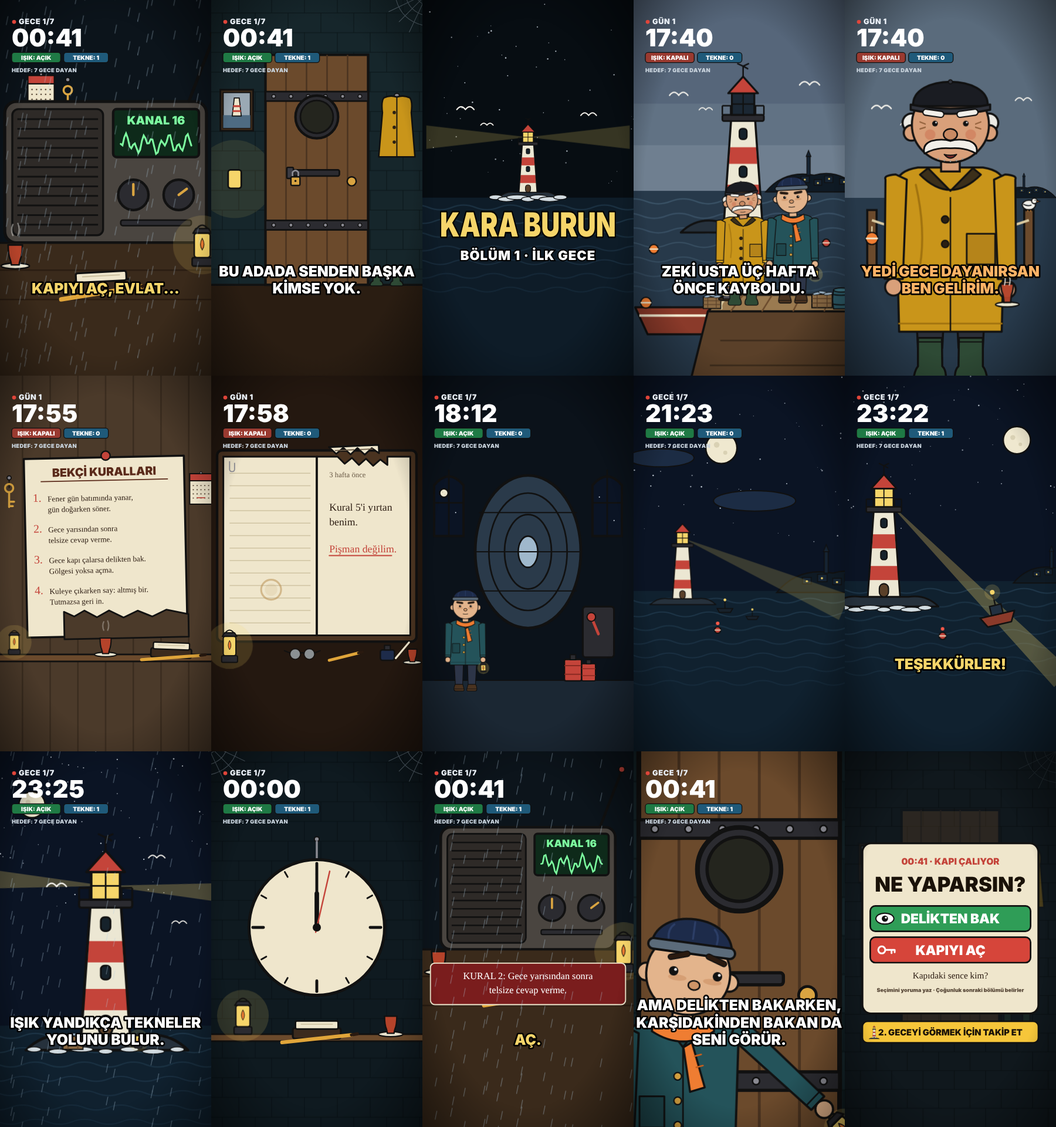
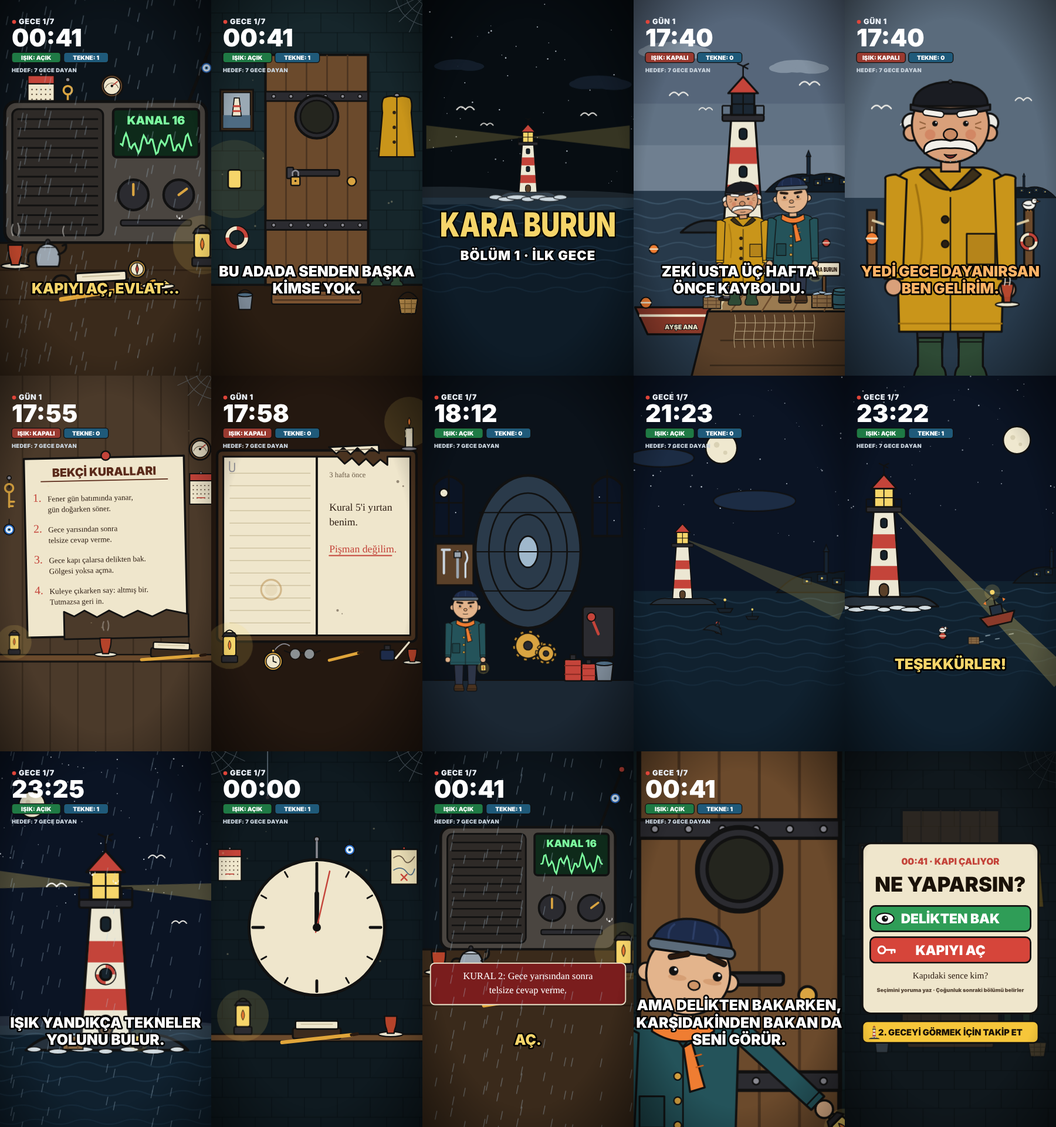
Kara Burun Bölüm 1: ikinci tur detaylar (harita, barometre, nazar, can simidi, yunus, güve, toz, dişli, tabela vb.)
Claude-Session: https://claude.ai/code/session_01LL2aFc3kDNuq4S6Wc9xmYN

diff --git a/story/bolum-01/sahne-cizim.js b/story/bolum-01/sahne-cizim.js
@@ -7,13 +7,13 @@ const ease=x=>x<0?0:x>1?1:x*x*(3-2*x);
 /* anahtar kare ara değeri: K=[[t,{alan:değer}],…]; sayılar yumuşak geçer, metin/bool alanlar sonraki karede değişir */
 const kf=(K,t)=>{if(t<=K[0][0])return Object.assign({},K[0][1]);for(let i=1;i<K.length;i++)if(t<=K[i][0]){const[t0,a]=K[i-1],[t1,b]=K[i],u=ease((t-t0)/(t1-t0)),o={};Object.keys(b).forEach(k=>{const av=a[k]!==undefined?a[k]:b[k];o[k]=typeof b[k]==='number'?av+(b[k]-av)*u:(u>=1?b[k]:av)});return o}return Object.assign({},K[K.length-1][1])};
 const stars=(n,seed,ymax)=>{const r=Cz.rng(seed);let s='<g fill="#dfe8f2">';for(let i=0;i<n;i++)s+=`<circle cx="${(r()*1080).toFixed(0)}" cy="${(r()*ymax).toFixed(0)}" r="${(1.5+r()*2.5).toFixed(1)}" opacity="${(.4+r()*.5).toFixed(2)}"/>`;return s+'</g>'};
-const masa=(y,buhar)=>`<rect y="${y}" width="1080" height="${1920-y}" fill="#3a2a1b"/><path d="M0 ${y}H1080" stroke="#111" stroke-width="10"/><path d="M0 ${y+130}H1080 M0 ${y+270}H1080" stroke="#2a1d12" stroke-width="7"/>`+Cz.defterK(520,y+190,1.5,-3)+Cz.gaz(1000,y+110,1)+Cz.bardak(110,y+110,1.25,buhar);
-const kapiDuvari=()=>Cz.cerceve(70,470,160,200)+Cz.yagmurluk(930,500,.9)+Cz.cizme(880,1425,.6)+Cz.orumcek(1080,0,1,true);
+const masa=(y,buhar)=>`<rect y="${y}" width="1080" height="${1920-y}" fill="#3a2a1b"/><path d="M0 ${y}H1080" stroke="#111" stroke-width="10"/><path d="M0 ${y+130}H1080 M0 ${y+270}H1080" stroke="#2a1d12" stroke-width="7"/>`+Cz.defterK(520,y+190,1.5,-3)+Cz.gaz(1000,y+110,1)+Cz.bardak(110,y+110,1.25,buhar)+Cz.demlik(265,y+112,1.1,buhar)+Cz.tabak(790,y+205,1.1)+Cz.pusula(690,y+125,1)+Cz.kulaklik(330,y+225,1)+Cz.guve(925,y-95);
+const kapiDuvari=()=>Cz.cerceve(70,470,160,200)+Cz.yagmurluk(930,500,.9)+Cz.cizme(880,1425,.6)+Cz.orumcek(1080,0,1,true)+Cz.simit(150,1190,46)+Cz.paspas(320,1450,440)+Cz.kova(190,1540,.8)+Cz.sepet(985,1560,.8)+Cz.toz(14,2,300,1300);
 const knock=(lt,ts,id,cx,cy,glow)=>{let dx=0,gl=.12;ts.forEach(t=>{const d=lt-t;if(d>0&&d<.3){dx+=Math.sin(d*70)*9*(1-d/.3);gl=Math.max(gl,.6*(1-d/.3))}});const k=$(id);if(k)k.setAttribute('transform',`translate(${cx+dx} ${cy})`);const e=$(glow);if(e)e.setAttribute('opacity',gl)};
 
 /* S1: HOOK, telsiz */
 S[1]={zoom:[1,1.12,540,880],
- ciz(g){g.innerHTML=Cz.duz('#0c141b')+Cz.takvim(170,420,.9)+Cz.anahtar(360,440,1)+`<g transform="translate(540 880) scale(1.2)">${Cz.telsiz('r1')}</g>`+masa(1216,true)+Cz.rain(22,3)},
+ ciz(g){g.innerHTML=Cz.duz('#0c141b')+Cz.takvim(170,420,.9)+Cz.anahtar(360,440,1)+Cz.barometre(570,470,52)+`<g transform="translate(540 880) scale(1.2)">${Cz.telsiz('r1')}</g>`+masa(1216,true)+Cz.nazar(1020,332)+Cz.rain(22,3)},
  hook(lt){$('r1w').setAttribute('d',Cz.dalga(60,340,-112,42,lt));$('r1g').setAttribute('fill',Math.floor(lt*9)%3===0?'#144a2c':'#0e2a1a')}};
 
 /* S2: HOOK, kapıdaki vuruş */
@@ -24,7 +24,7 @@ S[2]={zoom:[1,1.08,540,700],
 
 /* S3: başlık kartı */
 S[3]={
- ciz(g){const l=Cz.lamba(540,1010,.5);g.innerHTML=Cz.duz('#070d12')+stars(50,3,950)+Cz.sea(1010,'#0e1c28','#2c4a60')+Cz.ray(l[0],l[1],0,520,60,.2)+Cz.ray(l[0],l[1],180,520,60,.2)+Cz.tower(540,1010,.5,true)+Cz.towerDetay(540,1010,.5)+Cz.kopuk(540,1012,330)+Cz.martiU(220,560,1.1)+Cz.martiU(330,640,.8)+Cz.martiU(850,590,1)+
+ ciz(g){const l=Cz.lamba(540,1010,.5);g.innerHTML=Cz.duz('#070d12')+stars(50,3,950)+Cz.sea(1010,'#0e1c28','#2c4a60')+Cz.ray(l[0],l[1],0,520,60,.2)+Cz.ray(l[0],l[1],180,520,60,.2)+Cz.tower(540,1010,.5,true)+Cz.towerDetay(540,1010,.5)+Cz.kopuk(540,1012,330)+Cz.martiU(220,560,1.1)+Cz.martiU(330,640,.8)+Cz.martiU(850,590,1)+Cz.bulut(180,330,.8,'#16222f')+Cz.bulut(900,420,1,'#16222f')+Cz.sis(1000,'#9fb8cc',.14)+
   Cz.txt(540,1210,'KARA BURUN',{size:170,fill:P.lamp,anchor:'middle',extra:'stroke="#000" stroke-width="16" stroke-linejoin="round" paint-order="stroke fill" font-weight="900" textLength="900" lengthAdjust="spacingAndGlyphs"'})+
   Cz.txt(540,1330,'BÖLÜM 1 · İLK GECE',{size:66,fill:'#fff',anchor:'middle',extra:'stroke="#000" stroke-width="12" paint-order="stroke fill" letter-spacing="3"'})},
  hook(lt,sc,g){g.style.opacity=Math.min(1,lt/.25)*Math.min(1,(sc.sure-lt)/.25)}};
@@ -33,11 +33,11 @@ S[3]={
 let rigR4,rigB4;
 S[4]={zoom:[1,1.1,560,1050],
  ciz(g){
-  g.innerHTML=Cz.duz('#56667a')+`<rect y="560" width="1080" height="420" fill="#6b7b8c" opacity=".55"/><rect y="760" width="1080" height="220" fill="#7d8c9b" opacity=".5"/>`+Cz.sea(980,'#27394a','#4e6b82')+Cz.kasaba(740,985,.9)+Cz.tower(560,1180,1.0,false)+Cz.towerDetay(560,1180,1.0)+Cz.martiU(250,520,1.1)+Cz.martiU(380,590,.8)+Cz.martiU(880,470,1.2)+Cz.samandira(130,1260,22,'#ef7d32')+Cz.samandira(960,1230,18,'#c4443a');
-  g.insertAdjacentHTML('beforeend',`<path d="M40 1540 L470 1540 L420 1670 L100 1670 Z" fill="#8a3a2a" stroke="#111" stroke-width="10" stroke-linejoin="round"/><path d="M60 1580 H452" stroke="#efe6cc" stroke-width="12"/>
+  g.innerHTML=Cz.duz('#56667a')+`<rect y="560" width="1080" height="420" fill="#6b7b8c" opacity=".55"/><rect y="760" width="1080" height="220" fill="#7d8c9b" opacity=".5"/>`+Cz.bulut(220,300,1.1)+Cz.bulut(820,380,.9)+Cz.sea(980,'#27394a','#4e6b82')+Cz.kasaba(740,985,.9)+Cz.tower(560,1180,1.0,false)+Cz.towerDetay(560,1180,1.0)+Cz.martiU(250,520,1.1)+Cz.martiU(380,590,.8)+Cz.martiU(880,470,1.2)+Cz.samandira(130,1260,22,'#ef7d32')+Cz.samandira(960,1230,18,'#c4443a');
+  g.insertAdjacentHTML('beforeend',`<path d="M40 1540 L470 1540 L420 1670 L100 1670 Z" fill="#8a3a2a" stroke="#111" stroke-width="10" stroke-linejoin="round"/><path d="M60 1580 H452" stroke="#efe6cc" stroke-width="12"/><text x="262" y="1646" text-anchor="middle" font-size="30" fill="#efe6cc" stroke="#111" stroke-width="6" paint-order="stroke fill">AYŞE ANA</text>
    <path d="M470 1480 L1080 1480 L1080 1560 L390 1560 Z" fill="#9a7a50" stroke="#111" stroke-width="10" stroke-linejoin="round"/><path d="M390 1560 L1080 1560 L1080 1920 L300 1920 Z" fill="#5a4029" stroke="#111" stroke-width="10" stroke-linejoin="round"/>
    <path d="M560 1480 L500 1560 M700 1480 L650 1560 M840 1480 L800 1560 M980 1480 L950 1560" stroke="#6b4a2c" stroke-width="7"/><path d="M450 1700 H1080 M400 1820 H1080" stroke="#3a2a1b" stroke-width="7"/><path d="M482 1496 Q448 1518 456 1546" fill="none" stroke="#d9c9a0" stroke-width="9" stroke-linecap="round"/>`+
-   Cz.sandik(410,1546,.6,true)+Cz.samandira(92,1518,26,'#ef7d32')+Cz.bitta(482,1500,.7)+Cz.martiO(482,1444,.7)+Cz.sandik(940,1542,.7,true)+Cz.varil(1032,1548,.7));
+   Cz.sandik(410,1546,.6,true)+Cz.samandira(92,1518,26,'#ef7d32')+Cz.bitta(482,1500,.7)+Cz.martiO(482,1444,.7)+Cz.ag(520,900,1575,8)+Cz.levha(950,1330,150,'KARA BURUN')+Cz.sandik(940,1542,.7,true)+Cz.varil(1032,1548,.7));
   rigR4=Rigs.reis(g,{x:0,y:0,s:.4});rigB4=Rigs.bekci(g,{x:0,y:0,s:.4});
   g.insertAdjacentHTML('beforeend','<g id="bag4"><rect x="-44" y="-32" width="88" height="64" rx="16" fill="#7a5230" stroke="#111" stroke-width="7"/><path d="M-26 -32 Q0 -62 26 -32" fill="none" stroke="#111" stroke-width="7"/><path d="M-44 -4 H44" stroke="#4a3320" stroke-width="6"/></g>');
  },
@@ -56,7 +56,7 @@ S[4]={zoom:[1,1.1,560,1050],
 /* S5: Reis Rıza konuşuyor */
 let rigR;
 S[5]={zoom:[1,1.06,540,700],
- ciz(g){g.innerHTML=Cz.duz('#5a6b7c')+`<rect y="1000" width="1080" height="920" fill="#27394a"/>`+Cz.kasaba(820,1000,.55)+Cz.martiU(200,560,1.2)+Cz.martiU(330,640,.9)+Cz.martiU(900,520,1)+`<g stroke="#111" stroke-width="10"><rect x="130" y="1060" width="46" height="280" fill="#6b4a2c"/><rect x="904" y="1060" width="46" height="280" fill="#6b4a2c"/></g><path d="M153 1110 Q540 1250 927 1110" fill="none" stroke="#d9c9a0" stroke-width="12"/><path d="M153 1140 V1170" stroke="#d9c9a0" stroke-width="7"/>`+Cz.samandira(153,1200,30,'#ef7d32')+Cz.martiO(927,1062,.9);rigR=Rigs.reis(g,{x:540,y:640,s:1})},
+ ciz(g){g.innerHTML=Cz.duz('#5a6b7c')+`<rect y="1000" width="1080" height="920" fill="#27394a"/>`+Cz.kasaba(820,1000,.55)+Cz.martiU(200,560,1.2)+Cz.martiU(330,640,.9)+Cz.martiU(900,520,1)+`<g stroke="#111" stroke-width="10"><rect x="130" y="1060" width="46" height="280" fill="#6b4a2c"/><rect x="904" y="1060" width="46" height="280" fill="#6b4a2c"/></g><path d="M153 1110 Q540 1250 927 1110" fill="none" stroke="#d9c9a0" stroke-width="12"/><path d="M153 1140 V1170" stroke="#d9c9a0" stroke-width="7"/>`+Cz.samandira(153,1200,30,'#ef7d32')+Cz.martiO(927,1062,.9)+Cz.kurek(255,1380,1)+Cz.simit(927,1215,36);rigR=Rigs.reis(g,{x:540,y:640,s:1})},
  agiz(v){Rigs.mouth(rigR,v)}};
 
 /* S6: kural kâğıdı */
@@ -67,7 +67,7 @@ S[6]={zoom:[1,1.08,540,900],
   RULES.forEach((r,i)=>{const y=590+i*150;s+=`<g id="rl${i}" opacity="0">`+Cz.txt(190,y,(i+1)+'.',{size:56,fill:P.red,cls:'hand',extra:'font-weight="700"'})+Cz.txt(262,y,r[0],{size:38,fill:'#2a1a10',cls:'hand'})+Cz.txt(262,y+52,r[1],{size:38,fill:'#2a1a10',cls:'hand'})+'</g>'});
   s+=`<path d="M330 1128 L380 1152 L430 1124 L490 1158 L550 1126 L620 1162 L690 1130 L760 1160 L830 1128 L936 1152 V1262 H330 Z" fill="#4b3a2a" stroke="#111" stroke-width="8" stroke-linejoin="round"/>`;
   s+=`<g id="rl4" opacity="0">`+Cz.txt(190,1190,'5.',{size:56,fill:P.red,cls:'hand',extra:'font-weight="700"'})+'</g></g><circle cx="540" cy="432" r="22" fill="#c4443a" stroke="#111" stroke-width="7"/>';
-  s+=Cz.anahtar(70,540,1)+Cz.takvim(950,520,.78)+`<rect y="1400" width="1080" height="34" fill="#6b4a2c" stroke="#111" stroke-width="8"/>`+Cz.gaz(95,1400,.6)+Cz.bardak(540,1400,1,true)+Cz.defterK(860,1380,1.1,2);
+  s+=Cz.anahtar(70,540,1)+Cz.takvim(950,520,.78)+Cz.barometre(1000,400,52)+Cz.nazar(70,740)+Cz.orumcek(1080,0,1,true)+Cz.toz(12,5,300,1300)+`<rect y="1400" width="1080" height="34" fill="#6b4a2c" stroke="#111" stroke-width="8"/>`+Cz.gaz(95,1400,.6)+Cz.bardak(540,1400,1,true)+Cz.defterK(860,1380,1.1,2);
   g.innerHTML=s},
  hook(lt){[.6,1.9,3.2,4.5,5.8].forEach((t,i)=>fade('rl'+i,lt,t))}};
 
@@ -83,8 +83,8 @@ S[7]={zoom:[1,1.1,540,860],
   `<g id="d7a" opacity="0">`+Cz.txt(600,540,'3 hafta önce',{size:36,fill:'#6a5a46',cls:'hand'})+`</g>`+
   `<g id="d7b" opacity="0">`+Cz.txt(600,700,"Kural 5'i yırtan",{size:50,fill:'#2a1a10',cls:'hand'})+Cz.txt(600,770,'benim.',{size:50,fill:'#2a1a10',cls:'hand'})+`</g>`+
   `<g id="d7c" opacity="0">`+Cz.txt(600,900,'Pişman değilim.',{size:50,fill:P.red,cls:'hand'})+`<path d="M600 916 H900" stroke="${P.red}" stroke-width="6" stroke-linecap="round"/></g>`+
-  `<circle cx="320" cy="1080" r="48" fill="none" stroke="#b58a4a" stroke-width="9" opacity=".5"/><circle cx="320" cy="1080" r="30" fill="#b58a4a" opacity=".12"/><path d="M120 462 V500 Q120 512 132 512 Q144 512 144 500 V470" fill="none" stroke="#8a8a92" stroke-width="5"/>`+
-  Cz.gaz(120,1430,.8)+`<g transform="translate(470 1390)"><circle cx="-34" r="26" fill="#cfe1ea" opacity=".6" stroke="#111" stroke-width="6"/><circle cx="34" r="26" fill="#cfe1ea" opacity=".6" stroke="#111" stroke-width="6"/><path d="M-8 -4 Q0 -10 8 -4 M-60 -6 L-86 -16 M60 -6 L86 -16" stroke="#111" stroke-width="6" fill="none" stroke-linecap="round"/></g><path d="M600 1420 L740 1385" stroke="#e0a53a" stroke-width="14" stroke-linecap="round"/><path d="M740 1385 L760 1380" stroke="#2a1a10" stroke-width="12" stroke-linecap="round"/><g transform="translate(880 1420)"><rect x="-34" y="-50" width="68" height="50" rx="10" fill="#1d2b4a" stroke="#111" stroke-width="7"/><rect x="-14" y="-72" width="28" height="22" fill="#2b2b30" stroke="#111" stroke-width="6"/><path d="M40 -10 L104 -86" stroke="#efe6cc" stroke-width="9" stroke-linecap="round"/></g>`+Cz.bardak(1000,1430,.8,false)+
+  `<circle cx="320" cy="1080" r="48" fill="none" stroke="#b58a4a" stroke-width="9" opacity=".5"/><circle cx="320" cy="1080" r="30" fill="#b58a4a" opacity=".12"/><g fill="#2a1a10" opacity=".45"><circle cx="930" cy="560" r="7"/><circle cx="956" cy="582" r="4"/><circle cx="640" cy="1180" r="6"/><circle cx="662" cy="1196" r="3"/></g><path d="M120 462 V500 Q120 512 132 512 Q144 512 144 500 V470" fill="none" stroke="#8a8a92" stroke-width="5"/>`+
+  Cz.mum(985,402)+Cz.cepSaati(330,1425,44)+Cz.gaz(120,1430,.8)+`<g transform="translate(470 1390)"><circle cx="-34" r="26" fill="#cfe1ea" opacity=".6" stroke="#111" stroke-width="6"/><circle cx="34" r="26" fill="#cfe1ea" opacity=".6" stroke="#111" stroke-width="6"/><path d="M-8 -4 Q0 -10 8 -4 M-60 -6 L-86 -16 M60 -6 L86 -16" stroke="#111" stroke-width="6" fill="none" stroke-linecap="round"/></g><path d="M600 1420 L740 1385" stroke="#e0a53a" stroke-width="14" stroke-linecap="round"/><path d="M740 1385 L760 1380" stroke="#2a1a10" stroke-width="12" stroke-linecap="round"/><g transform="translate(880 1420)"><rect x="-34" y="-50" width="68" height="50" rx="10" fill="#1d2b4a" stroke="#111" stroke-width="7"/><rect x="-14" y="-72" width="28" height="22" fill="#2b2b30" stroke="#111" stroke-width="6"/><path d="M40 -10 L104 -86" stroke="#efe6cc" stroke-width="9" stroke-linecap="round"/></g>`+Cz.bardak(1000,1430,.8,false)+
   `<g id="pc7"><path d="M640 440 L880 440 ${[...ZP].reverse().map(p=>`L${p[0].toFixed(0)} ${p[1]}`).join(' ')} Z" fill="#efe6cc" stroke="#111" stroke-width="8" stroke-linejoin="round"/><path d="M670 458 h90 M790 458 h60" stroke="#6a5a46" stroke-width="5" stroke-linecap="round"/></g>`},
  hook(lt){fade('d7a',lt,.2);fade('d7b',lt,.7);fade('d7c',lt,1.6);const k=1-ease((lt-2.3)/1.1);$('pc7').setAttribute('transform',`translate(${-230*k} ${-280*k}) rotate(${-14*k} 760 440)`)}};
 
@@ -92,7 +92,7 @@ S[7]={zoom:[1,1.1,540,860],
 let rigB8;
 S[8]={
  ciz(g){let st='M60 1920 V1760';for(let i=0;i<14;i++)st+=` h60 v-72`;st+=' V1920 Z';
-  g.innerHTML=`<g id="ph8a">${Cz.brick('#16222b','#0d161c')}<path d="${st}" fill="#3b4650" stroke="#111" stroke-width="10" stroke-linejoin="round"/><path d="M90 1590 L930 590" stroke="#8a6a44" stroke-width="12" stroke-linecap="round"/><path d="M200 1500 V1620 M400 1330 V1450 M600 1160 V1280 M800 990 V1110" stroke="#8a6a44" stroke-width="9"/>${Cz.orumcek(1080,0,1,true)}${Cz.duvarLambasi(170,1000,1)}${Cz.duvarLambasi(910,650,1)}<g><circle cx="200" cy="520" r="112" fill="#2b2b30" stroke="#111" stroke-width="12"/><circle cx="200" cy="520" r="94" fill="#0b1424"/>${Cz.moon(236,486,26)}<path d="M106 570 Q150 546 200 570 T294 570" stroke="#2c4a60" stroke-width="7" fill="none"/><path d="M200 426 V614 M106 520 H294" stroke="#111" stroke-width="8"/></g>
+  g.innerHTML=`<g id="ph8a">${Cz.brick('#16222b','#0d161c')}<path d="${st}" fill="#3b4650" stroke="#111" stroke-width="10" stroke-linejoin="round"/><path d="M90 1590 L930 590" stroke="#8a6a44" stroke-width="12" stroke-linecap="round"/><path d="M200 1500 V1620 M400 1330 V1450 M600 1160 V1280 M800 990 V1110" stroke="#8a6a44" stroke-width="9"/>${Cz.orumcek(1080,0,1,true)}${Cz.boru(0,760,430)}<g class="drip8"><path d="M700 40 q-9 16 0 26 q9 -10 0 -26z" fill="#9fc3c9"/></g><g class="drip8" style="animation-delay:-.8s"><path d="M980 80 q-9 16 0 26 q9 -10 0 -26z" fill="#9fc3c9"/></g>${Cz.duvarLambasi(170,1000,1)}${Cz.duvarLambasi(910,650,1)}<g><circle cx="200" cy="520" r="112" fill="#2b2b30" stroke="#111" stroke-width="12"/><circle cx="200" cy="520" r="94" fill="#0b1424"/>${Cz.moon(236,486,26)}<path d="M106 570 Q150 546 200 570 T294 570" stroke="#2c4a60" stroke-width="7" fill="none"/><path d="M200 426 V614 M106 520 H294" stroke="#111" stroke-width="8"/></g>
    <rect x="520" y="420" width="320" height="200" rx="22" fill="#0b1217" stroke="${P.lamp}" stroke-width="8"/>${Cz.txt(680,468,'BASAMAK',{size:34,fill:'#c9d4de',anchor:'middle'})}${Cz.txt(680,578,'55',{size:120,fill:P.lamp,anchor:'middle',extra:'id="st8"'})}</g>
    <g id="ph8b" style="display:none">${Cz.duz('#0b121a')}<rect id="wm8" width="1080" height="1920" fill="#f6d56a" opacity="0"/>
    <circle id="gl8" cx="540" cy="900" r="10" fill="#f6d56a" opacity="0"/>
@@ -100,7 +100,7 @@ S[8]={
    <rect x="820" y="1180" width="160" height="260" rx="16" fill="#2b2b30" stroke="#111" stroke-width="10"/><g id="lv8" transform="rotate(-35 900 1320)"><path d="M900 1320 V1230" stroke="#c4443a" stroke-width="14" stroke-linecap="round"/><circle cx="900" cy="1226" r="22" fill="#c4443a" stroke="#111" stroke-width="6"/></g>
    <path d="M60 1560 H1020" stroke="#111" stroke-width="10"/><rect y="1560" width="1080" height="360" fill="#1b2733"/>
    <path d="M60 820 V560 Q135 470 210 560 V820 Z" fill="#0b1424" stroke="#111" stroke-width="12"/><path d="M135 480 V820 M60 650 H210" stroke="#111" stroke-width="8"/><path d="M870 820 V560 Q945 470 1020 560 V820 Z" fill="#0b1424" stroke="#111" stroke-width="12"/><path d="M945 480 V820 M870 650 H1020" stroke="#111" stroke-width="8"/>${Cz.moon(110,600,22)}<g fill="#dfe8f2"><circle cx="170" cy="700" r="3"/><circle cx="905" cy="620" r="3"/><circle cx="980" cy="740" r="3"/></g>
-   ${Cz.teneke(770,1560,1)}${Cz.teneke(850,1560,.8)}</g>`;
+   ${Cz.teneke(770,1560,1)}${Cz.teneke(850,1560,.8)}${Cz.kova(930,1560,1)}${Cz.disli(540,1380,64)}${Cz.disli(632,1420,40,true)}${Cz.takimTahtasi(70,860)}</g>`;
   rigB8=Rigs.bekci(g,{x:0,y:0,s:.3,anim:'walk'})},
  hook(lt){const a=lt<4.6;$('ph8a').style.display=a?'inline':'none';$('ph8b').style.display=a?'none':'inline';
   if(a){const u=clamp(lt/4.2,0,1),i=4+8*u,k=Math.floor(i);rigB8.parentNode.setAttribute('transform',`translate(${100+k*60+30} ${1760-k*72-382}) scale(.3)`);$('st8').textContent=55+Math.min(6,Math.floor(lt/.7))}
@@ -110,30 +110,30 @@ S[8]={
 
 /* S9: zaman atlama */
 S[9]={
- ciz(g){const l=Cz.lamba(250,1170,.55);g.innerHTML=Cz.duz('#0b1424')+stars(60,5,900)+`<g id="mo9">${Cz.moon(0,0,80)}</g>`+Cz.sea(1100,'#10212f','#2c4a60')+Cz.kasaba(820,1108,1.1)+`<g id="fb9"><g transform="translate(560 1190)"><path d="M-40 0 H40 L28 20 H-28 Z" fill="#18222c" stroke="#111" stroke-width="5"/><path d="M0 0 V-40" stroke="#111" stroke-width="5"/><circle cy="-44" r="7" fill="#f6d56a"/></g><g transform="translate(700 1230) scale(.8)"><path d="M-40 0 H40 L28 20 H-28 Z" fill="#18222c" stroke="#111" stroke-width="5"/><path d="M0 0 V-40" stroke="#111" stroke-width="5"/><circle cy="-44" r="7" fill="#f6d56a"/></g></g>`+Cz.samandira(430,1300,16,'#c4443a',true)+Cz.ray(l[0],l[1],14,900,70,.2,'by9')+Cz.tower(250,1170,.55,true)+
+ ciz(g){const l=Cz.lamba(250,1170,.55);g.innerHTML=Cz.duz('#0b1424')+stars(60,5,900)+`<g id="mo9">${Cz.moon(0,0,80)}</g>`+Cz.sea(1100,'#10212f','#2c4a60')+Cz.kasaba(820,1108,1.1)+`<g id="fb9"><g transform="translate(560 1190)"><path d="M-40 0 H40 L28 20 H-28 Z" fill="#18222c" stroke="#111" stroke-width="5"/><path d="M0 0 V-40" stroke="#111" stroke-width="5"/><circle cy="-44" r="7" fill="#f6d56a"/></g><g transform="translate(700 1230) scale(.8)"><path d="M-40 0 H40 L28 20 H-28 Z" fill="#18222c" stroke="#111" stroke-width="5"/><path d="M0 0 V-40" stroke="#111" stroke-width="5"/><circle cy="-44" r="7" fill="#f6d56a"/></g></g>`+Cz.samandira(430,1300,16,'#c4443a',true)+`<g id="dl9"><path d="M0 0 Q26 -46 66 -38 Q84 -28 96 0 Q56 -14 0 0Z" fill="#1a2a38" stroke="#111" stroke-width="5"/><path d="M52 -36 L62 -62 L74 -34Z" fill="#1a2a38" stroke="#111" stroke-width="4"/></g><path id="ss9" d="M0 0 L-90 34" stroke="#fff" stroke-width="5" stroke-linecap="round" opacity="0"/>`+Cz.ray(l[0],l[1],14,900,70,.2,'by9')+Cz.tower(250,1170,.55,true)+
   `<g id="cl9" fill="#1c2c44" stroke="#111" stroke-width="6"><ellipse cx="300" cy="420" rx="170" ry="46"/><ellipse cx="780" cy="640" rx="210" ry="52"/></g>`},
- hook(lt,sc){const u=lt/sc.sure;$('mo9').setAttribute('transform',`translate(${920-u*760} ${760-420*Math.sin(Math.PI*u)})`);$('cl9').setAttribute('transform',`translate(${-u*260} 0)`);$('fb9').setAttribute('transform',`translate(${-u*150} 0)`);$('by9').setAttribute('transform',`rotate(${14+Math.sin(lt*3)*10} 250 ${1170-618*.55})`)}};
+ hook(lt,sc){const u=lt/sc.sure;$('mo9').setAttribute('transform',`translate(${920-u*760} ${760-420*Math.sin(Math.PI*u)})`);$('cl9').setAttribute('transform',`translate(${-u*260} 0)`);$('fb9').setAttribute('transform',`translate(${-u*150} 0)`);const j=Math.abs(Math.sin(u*Math.PI*3));$('dl9').setAttribute('transform',`translate(${300+u*90} ${1345-80*j}) rotate(${-22+44*(u*3%1)} 48 0)`);$('dl9').setAttribute('opacity',j>.2?1:0);const q=clamp((u-.3)/.15,0,1);$('ss9').setAttribute('transform',`translate(${760-q*340} ${280+q*150})`);$('ss9').setAttribute('opacity',q>0&&q<1?1-q*.6:0);$('by9').setAttribute('transform',`rotate(${14+Math.sin(lt*3)*10} 250 ${1170-618*.55})`)}};
 
 /* S10: tekne kurtarılıyor */
 S[10]={
- ciz(g){const l=Cz.lamba(200,1180,.9);g.innerHTML=Cz.duz('#0b1424')+stars(50,9,800)+Cz.moon(880,330,70)+Cz.sea(1050,'#10212f','#2c4a60')+Cz.kasaba(930,1060,.85)+Cz.samandira(500,1330,18,'#c4443a',true)+Cz.ray(l[0],l[1],20,1300,60,.3,'by10')+Cz.tower(200,1180,.9,true)+Cz.towerDetay(200,1180,.9)+Cz.kopuk(200,1190,420)+
-  `<g id="bt10" transform="translate(780 1220)"><path id="bth" d="M-90 0 L90 0 L62 52 L-62 52 Z" fill="#18222c" stroke="#111" stroke-width="8" stroke-linejoin="round"/><rect x="-30" y="-48" width="60" height="48" fill="#223040" stroke="#111" stroke-width="7"/><path d="M0 -48 V-110" stroke="#111" stroke-width="7"/><circle cx="0" cy="-116" r="12" fill="${P.lamp}"/><circle cx="0" cy="-116" r="40" fill="${P.lamp}" opacity=".18"/></g>`},
+ ciz(g){const l=Cz.lamba(200,1180,.9);g.innerHTML=Cz.duz('#0b1424')+stars(50,9,800)+Cz.moon(880,330,70)+Cz.sea(1050,'#10212f','#2c4a60')+Cz.kasaba(930,1060,.85)+Cz.samandira(500,1330,18,'#c4443a',true)+Cz.martiO(500,1316,.5)+Cz.sandik(660,1372,.4)+`<g stroke="#cfe6ef" stroke-width="4" stroke-linecap="round" opacity=".8"><path d="M720 1330 l22 -4 M770 1346 l20 -3 M690 1362 l18 -4 M840 1322 l22 -4"/></g>`+Cz.ray(l[0],l[1],20,1300,60,.3,'by10')+Cz.tower(200,1180,.9,true)+Cz.towerDetay(200,1180,.9)+Cz.kopuk(200,1190,420)+
+  `<g id="bt10" transform="translate(780 1220)"><path id="bth" d="M-90 0 L90 0 L62 52 L-62 52 Z" fill="#18222c" stroke="#111" stroke-width="8" stroke-linejoin="round"/><rect x="-30" y="-48" width="60" height="48" fill="#223040" stroke="#111" stroke-width="7"/><path d="M0 -48 V-110" stroke="#111" stroke-width="7"/><path d="M0 -100 L-44 -78 M0 -100 L44 -78" stroke="#111" stroke-width="4"/><path d="M-44 -78 l-14 10 l14 10z M44 -78 l14 10 l-14 10z" fill="#ef7d32"/><circle cx="0" cy="-116" r="12" fill="${P.lamp}"/><circle cx="0" cy="-116" r="40" fill="${P.lamp}" opacity=".18"/></g>`},
  hook(lt){const a=15+lt*14;$('by10').setAttribute('transform',`rotate(${a} 200 ${1180-618*.9})`);const lit=Math.abs(a-45.8)<9;$('bth').setAttribute('fill',lit?'#8a3a2a':'#18222c');const k=ease((lt-2)/1);$('bt10').setAttribute('transform',`translate(780 1220) rotate(${-14*(1-k)})`)}};
 
 /* S11: kule dışarıdan */
 S[11]={zoom:[1.12,1,540,900],
- ciz(g){const l=Cz.lamba(540,1500,1.3);g.innerHTML=Cz.duz('#0b1424')+stars(60,11,800)+Cz.moon(180,300,64)+Cz.sea(1380,'#10212f','#2c4a60')+Cz.ray(l[0],l[1],-4,1100,90,.28,'ba11')+Cz.ray(l[0],l[1],176,1100,90,.28,'bb11')+Cz.tower(540,1500,1.3,true)+Cz.towerDetay(540,1500,1.3)+Cz.kopuk(540,1500,700)+Cz.gaz(700,1490,.38)+Cz.sandik(380,1496,.7,true)+Cz.martiU(300,700,1.2)+Cz.martiU(790,560,1)+Cz.martiU(900,880,.9)+Cz.rain(18,13)},
+ ciz(g){const l=Cz.lamba(540,1500,1.3);g.innerHTML=Cz.duz('#0b1424')+stars(60,11,800)+Cz.moon(180,300,64)+Cz.sea(1380,'#10212f','#2c4a60')+Cz.ray(l[0],l[1],-4,1100,90,.28,'ba11')+Cz.ray(l[0],l[1],176,1100,90,.28,'bb11')+Cz.tower(540,1500,1.3,true)+Cz.towerDetay(540,1500,1.3)+Cz.kopuk(540,1500,700)+Cz.gaz(700,1490,.38)+Cz.sandik(380,1496,.7,true)+Cz.simit(540,1130,40)+Cz.guve(600,690)+Cz.guve(486,650)+Cz.sis(1380,'#cfe0ea',.16)+Cz.martiU(300,700,1.2)+Cz.martiU(790,560,1)+Cz.martiU(900,880,.9)+Cz.rain(18,13)},
  hook(lt){const l=Cz.lamba(540,1500,1.3),a=-14+lt*8;$('ba11').setAttribute('transform',`rotate(${a} ${l[0]} ${l[1]})`);$('bb11').setAttribute('transform',`rotate(${a+180} ${l[0]} ${l[1]})`)}};
 
 /* S12: gece yarısı */
 S[12]={zoom:[1,1.08,540,900],
- ciz(g){g.innerHTML=Cz.brick('#0f1a20','#0a1217')+Cz.orumcek(0,0,1,false)+Cz.orumcek(1080,0,1,true)+`<circle cx="540" cy="470" r="12" fill="#8a8a92" stroke="#111" stroke-width="6"/><path d="M540 480 V580" stroke="#8a8a92" stroke-width="10"/><rect y="1420" width="1080" height="34" fill="#6b4a2c" stroke="#111" stroke-width="8"/>`+Cz.gaz(180,1420,.9)+Cz.defterK(540,1400,1.3,0)+Cz.bardak(900,1420,1.1,false)+`<g transform="translate(540 900)">${Cz.saat(330,'ck')}</g><rect id="fl12" width="1080" height="1920" fill="#000" opacity="0"/>`},
+ ciz(g){g.innerHTML=Cz.brick('#0f1a20','#0a1217')+Cz.orumcek(0,0,1,false)+Cz.orumcek(1080,0,1,true)+`<circle cx="540" cy="470" r="12" fill="#8a8a92" stroke="#111" stroke-width="6"/><path d="M540 480 V580" stroke="#8a8a92" stroke-width="10"/><rect y="1420" width="1080" height="34" fill="#6b4a2c" stroke="#111" stroke-width="8"/>`+Cz.gaz(180,1420,.9)+Cz.defterK(540,1400,1.3,0)+Cz.bardak(900,1420,1.1,false)+Cz.takvim(60,520,.8)+Cz.harita(900,520,130,170)+Cz.nazar(700,470)+Cz.toz(14,8,300,1300)+`<g class="spid"><path d="M300 0 V220" stroke="#9fb0bf" stroke-width="3"/><circle cx="300" cy="228" r="9" fill="#2b2b30"/></g>`+`<g transform="translate(540 900)">${Cz.saat(330,'ck')}</g><rect id="fl12" width="1080" height="1920" fill="#000" opacity="0"/>`},
  hook(lt){const m=-6*(1-ease((lt-1)/.5));$('ckm').setAttribute('transform',`rotate(${m})`);$('ckh').setAttribute('transform','rotate(0)');$('cks').setAttribute('transform',`rotate(${lt<1.5?-(1.5-lt)*60:(lt-1.5)*36})`);
   const f=(lt>2&&lt<2.15)||(lt>2.3&&lt<2.4)?.85:0;$('fl12').setAttribute('opacity',f)}};
 
 /* S13: Zeki'nin sesi telsizden */
 S[13]={zoom:[1,1.1,540,700],
- ciz(g){g.innerHTML=Cz.duz('#0c141b')+`<g transform="translate(540 700) scale(1.05)">${Cz.telsiz('r13')}</g>`+masa(994,false)+`
+ ciz(g){g.innerHTML=Cz.duz('#0c141b')+`<g transform="translate(540 700) scale(1.05)">${Cz.telsiz('r13')}</g>`+masa(994,false)+Cz.nazar(960,215)+`
   <g id="bn13" opacity="0"><rect x="70" y="1060" width="940" height="200" rx="22" fill="#7a1d1d" stroke="#efe6cc" stroke-width="6"/>`+Cz.txt(540,1136,'KURAL 2: Gece yarısından sonra',{size:46,fill:'#fff',anchor:'middle',cls:'hand',extra:'font-weight="700"'})+Cz.txt(540,1204,'telsize cevap verme.',{size:46,fill:'#fff',anchor:'middle',cls:'hand',extra:'font-weight="700"'})+`</g>`+Cz.rain(18,21)},
  hook(lt){$('r13w').setAttribute('d',Cz.dalga(60,340,-112,46,lt+3));const e=$('bn13');e.setAttribute('opacity',clamp((lt-2.4)/.3,0,1));e.setAttribute('transform',`translate(0 ${(1-ease((lt-2.4)/.4))*60})`)}};
 

diff --git a/sablon/cizim.js b/sablon/cizim.js
@@ -68,6 +68,30 @@ const Cz={P,rng,
  towerDetay(x,y,s){return `<g transform="translate(${x} ${y}) scale(${s})"><rect x="-18" y="-318" width="36" height="52" rx="14" fill="#16222b" stroke="#111" stroke-width="7"/><rect x="-18" y="-500" width="36" height="52" rx="14" fill="#16222b" stroke="#111" stroke-width="7"/><path d="M-100 -566 V-610 M-60 -566 V-610 M60 -566 V-610 M100 -566 V-610 M-100 -610 H-54 M54 -610 H100" stroke="#111" stroke-width="7"/><path d="M0 -750 V-800 M-26 -812 L0 -800 L26 -812 M0 -800 L22 -788" fill="none" stroke="#111" stroke-width="7" stroke-linecap="round"/></g>`},
  teneke(x,y,s){s=s||1;return `<g transform="translate(${x} ${y}) scale(${s})"><rect x="-44" y="-110" width="88" height="110" rx="8" fill="#c4443a" stroke="#111" stroke-width="8"/><rect x="-14" y="-134" width="28" height="26" fill="#2b2b30" stroke="#111" stroke-width="6"/><path d="M-44 -78 H44 M-44 -34 H44" stroke="#8a2a22" stroke-width="6"/></g>`},
  duvarLambasi(x,y,s){s=s||1;return `<g transform="translate(${x} ${y}) scale(${s})"><circle class="flk" r="150" fill="#f6d56a" opacity=".13"/><rect x="-26" y="-46" width="52" height="82" rx="10" fill="#f6d56a" stroke="#111" stroke-width="7"/><path d="M0 -26 Q-12 -4 0 14 Q12 -4 0 -26 Z" fill="#ef7d32"/><path d="M-34 -46 H34 L24 -66 H-24 Z" fill="#2b2b30" stroke="#111" stroke-width="6"/><rect x="-18" y="36" width="36" height="14" fill="#2b2b30" stroke="#111" stroke-width="6"/></g>`},
+ /* ---- detay objeleri, 2. tur ---- */
+ demlik(x,y,s,buhar){s=s||1;return `<g transform="translate(${x} ${y}) scale(${s})"><path d="M-46 0 Q-62 -50 -34 -84 H34 Q62 -50 46 0 Z" fill="#9aa4ae" stroke="#111" stroke-width="7" stroke-linejoin="round"/><path d="M-34 -84 Q0 -110 34 -84" fill="#b6bfc8" stroke="#111" stroke-width="7"/><circle cy="-108" r="9" fill="#2b2b30" stroke="#111" stroke-width="5"/><path d="M46 -52 Q86 -64 78 -96 L64 -90" fill="none" stroke="#111" stroke-width="9" stroke-linecap="round"/><path d="M-48 -60 Q-92 -70 -84 -20" fill="none" stroke="#111" stroke-width="9" stroke-linecap="round"/>${buhar?'<g class="steam" fill="none" stroke="#f1efe9" stroke-width="5" stroke-linecap="round"><path d="M70 -108 Q60 -130 70 -150"/></g>':''}</g>`},
+ tabak(x,y,s){s=s||1;return `<g transform="translate(${x} ${y}) scale(${s})"><ellipse rx="70" ry="14" fill="#efe6cc" stroke="#111" stroke-width="6"/><path d="M-50 -4 Q-40 -34 -10 -30 L-6 -4 Z" fill="#e0a53a" stroke="#111" stroke-width="5" stroke-linejoin="round"/><path d="M6 -4 L30 -26 L56 -6 Z" fill="#f2d36a" stroke="#111" stroke-width="5" stroke-linejoin="round"/><circle cx="30" cy="-14" r="3" fill="#111"/></g>`},
+ pusula(x,y,s){s=s||1;return `<g transform="translate(${x} ${y}) scale(${s})"><circle r="40" fill="#d9a441" stroke="#111" stroke-width="7"/><circle r="30" fill="#efe6cc" stroke="#111" stroke-width="4"/><path d="M0 -24 L7 0 L0 24 L-7 0 Z" fill="#c4443a" stroke="#111" stroke-width="3"/></g>`},
+ nazar(x,y){return `<g transform="translate(${x} ${y})"><path d="M0 0 V26" stroke="#111" stroke-width="4"/><circle cy="52" r="26" fill="#2a6fc9" stroke="#111" stroke-width="5"/><circle cy="52" r="17" fill="#fff"/><circle cy="52" r="10" fill="#7fc3ff"/><circle cy="52" r="5" fill="#111"/></g>`},
+ harita(x,y,w,h){return `<g transform="translate(${x} ${y})"><rect width="${w}" height="${h}" fill="#e8dcb4" stroke="#111" stroke-width="7"/><path d="M${w*.1} ${h*.25} Q${w*.35} ${h*.1} ${w*.5} ${h*.3} T${w*.9} ${h*.2}" fill="none" stroke="#6a5a46" stroke-width="5"/><path d="M${w*.1} ${h*.6} Q${w*.4} ${h*.45} ${w*.6} ${h*.65} T${w*.9} ${h*.55}" fill="none" stroke="#4e6b82" stroke-width="5"/><path d="M${w*.5-14} ${h*.8-14} l28 28 M${w*.5+14} ${h*.8-14} l-28 28" stroke="#c4443a" stroke-width="7" stroke-linecap="round"/><circle cx="${w/2}" cy="-6" r="6" fill="#c4443a" stroke="#111" stroke-width="3"/></g>`},
+ barometre(x,y,r){return `<g transform="translate(${x} ${y})"><circle r="${r}" fill="#6b4a2c" stroke="#111" stroke-width="8"/><circle r="${r*.78}" fill="#efe6cc" stroke="#111" stroke-width="5"/><path d="M0 0 L${r*.5} ${-r*.4}" stroke="#c4443a" stroke-width="5" stroke-linecap="round"/><path d="M${-r*.6} ${r*.2} A${r*.62} ${r*.62} 0 0 1 ${r*.6} ${r*.2}" fill="none" stroke="#6a5a46" stroke-width="3"/><circle r="6" fill="#111"/></g>`},
+ simit(x,y,r){return `<g transform="translate(${x} ${y})"><circle r="${r}" fill="none" stroke="#efe6cc" stroke-width="${r*.5}"/><g stroke="#c4443a" stroke-width="${r*.5}" fill="none"><path d="M0 ${-r} a${r} ${r} 0 0 1 ${r} ${r}"/><path d="M0 ${r} a${r} ${r} 0 0 1 ${-r} ${-r}"/></g><circle r="${r*1.25}" fill="none" stroke="#111" stroke-width="5"/><circle r="${r*.75}" fill="none" stroke="#111" stroke-width="5"/></g>`},
+ levha(x,y,w,txt){return `<g transform="translate(${x} ${y})"><rect x="-8" y="0" width="16" height="170" fill="#6b4a2c" stroke="#111" stroke-width="6"/><rect x="${-w/2}" y="-6" width="${w}" height="64" rx="6" fill="#efe6cc" stroke="#111" stroke-width="7"/><text x="0" y="40" text-anchor="middle" font-size="30" fill="#2a1a10" textLength="${w-24}" lengthAdjust="spacingAndGlyphs">${txt}</text></g>`},
+ kurek(x,y,s){s=s||1;return `<g transform="translate(${x} ${y}) scale(${s}) rotate(8)"><rect x="-8" y="-330" width="16" height="330" fill="#a07a48" stroke="#111" stroke-width="6"/><path d="M-30 -380 Q0 -420 30 -380 L18 -300 H-18 Z" fill="#a07a48" stroke="#111" stroke-width="6" stroke-linejoin="round"/></g>`},
+ ag(x1,x2,y,n){let s='<g stroke="#d9c9a0" stroke-width="3" fill="none" opacity=".75">';for(let i=0;i<=n;i++){const x=x1+(x2-x1)*i/n;s+=`<path d="M${x} ${y} q8 40 0 80 q-8 40 0 80"/>`}for(let j=1;j<4;j++)s+=`<path d="M${x1} ${y+j*40} H${x2}"/>`;return s+'</g>'},
+ mum(x,y){return `<g transform="translate(${x} ${y})"><circle class="flk" cy="-130" r="120" fill="#f6d56a" opacity=".16"/><rect x="-18" y="-100" width="36" height="100" fill="#efe6cc" stroke="#111" stroke-width="6"/><path d="M-18 -90 q6 20 0 34 M10 -100 q6 14 0 24" fill="none" stroke="#d9cfa8" stroke-width="5"/><path d="M0 -100 V-112" stroke="#111" stroke-width="4"/><path d="M0 -150 Q-14 -128 0 -112 Q14 -128 0 -150Z" fill="#ef7d32" stroke="#111" stroke-width="3"/><ellipse cy="0" rx="38" ry="9" fill="#8a8a92" stroke="#111" stroke-width="5"/></g>`},
+ cepSaati(x,y,r){return `<g transform="translate(${x} ${y})"><path d="M0 ${-r} Q40 ${-r-60} 80 ${-r-30}" fill="none" stroke="#8a8a92" stroke-width="5"/><circle r="${r}" fill="#d9a441" stroke="#111" stroke-width="7"/><circle r="${r*.76}" fill="#efe6cc" stroke="#111" stroke-width="4"/><path d="M0 0 V${-r*.5} M0 0 L${r*.34} ${r*.12}" stroke="#111" stroke-width="5" stroke-linecap="round"/><rect x="-7" y="${-r-14}" width="14" height="14" fill="#d9a441" stroke="#111" stroke-width="4"/></g>`},
+ bulut(x,y,s,c){s=s||1;return `<g transform="translate(${x} ${y}) scale(${s})" fill="${c||'#8a99a8'}" opacity=".85"><ellipse cx="0" cy="0" rx="130" ry="34"/><ellipse cx="-70" cy="10" rx="80" ry="26"/><ellipse cx="80" cy="12" rx="90" ry="28"/></g>`},
+ sis(y,c,op){return `<g class="fog" opacity="${op||.18}" fill="${c||'#cfe0ea'}"><ellipse cx="200" cy="${y}" rx="420" ry="46"/><ellipse cx="820" cy="${y+26}" rx="480" ry="52"/></g>`},
+ kova(x,y,s){s=s||1;return `<g transform="translate(${x} ${y}) scale(${s})"><path d="M-46 -90 L-36 0 H36 L46 -90 Z" fill="#7a8794" stroke="#111" stroke-width="7" stroke-linejoin="round"/><ellipse cy="-90" rx="46" ry="12" fill="#4e6b82" stroke="#111" stroke-width="6"/><path d="M-46 -90 Q0 -150 46 -90" fill="none" stroke="#111" stroke-width="6"/></g>`},
+ paspas(x,y,w){return `<g transform="translate(${x} ${y})"><rect width="${w}" height="64" rx="10" fill="#7a5230" stroke="#111" stroke-width="7"/><path d="M14 20 H${w-14} M14 44 H${w-14}" stroke="#4a3320" stroke-width="6"/></g>`},
+ sepet(x,y,s){s=s||1;return `<g transform="translate(${x} ${y}) scale(${s})"><path d="M-58 -90 L-44 0 H44 L58 -90 Z" fill="#b58a4a" stroke="#111" stroke-width="7" stroke-linejoin="round"/><path d="M-52 -60 H52 M-48 -30 H48 M-20 -90 V0 M20 -90 V0" stroke="#7a5a2a" stroke-width="5"/><path d="M-58 -90 Q0 -170 58 -90" fill="none" stroke="#111" stroke-width="7"/></g>`},
+ boru(x,y,w){return `<g transform="translate(${x} ${y})"><rect width="${w}" height="34" fill="#4a5560" stroke="#111" stroke-width="7"/><path d="M${w*.3} 0 V-34" stroke="#111" stroke-width="9"/><circle cx="${w*.3}" cy="-46" r="22" fill="none" stroke="#c4443a" stroke-width="8"/><path d="M${w*.3-22} -46 H${w*.3+22}" stroke="#c4443a" stroke-width="6"/></g>`},
+ disli(x,y,r,ters){let t='';for(let i=0;i<10;i++)t+=`<rect x="-9" y="${-r-14}" width="18" height="24" rx="3" transform="rotate(${i*36})" fill="#b8892f" stroke="#111" stroke-width="4"/>`;return `<g transform="translate(${x} ${y})"><g class="rot" style="animation-direction:${ters?'reverse':'normal'}">${t}<circle r="${r}" fill="#d9a441" stroke="#111" stroke-width="7"/><circle r="${r*.35}" fill="#2b2b30" stroke="#111" stroke-width="5"/></g></g>`},
+ takimTahtasi(x,y){return `<g transform="translate(${x} ${y})"><rect width="190" height="210" fill="#5a4029" stroke="#111" stroke-width="8"/><path d="M40 30 V150 M30 30 H70" stroke="#c9d4de" stroke-width="12" stroke-linecap="round"/><path d="M110 40 V170" stroke="#9aa4ae" stroke-width="14" stroke-linecap="round"/><path d="M92 40 H128 V70 H92 Z" fill="#9aa4ae" stroke="#111" stroke-width="5"/><path d="M150 40 Q170 70 150 100 M150 100 V170" stroke="#c9d4de" stroke-width="10" fill="none" stroke-linecap="round"/></g>`},
+ kulaklik(x,y,s){s=s||1;return `<g transform="translate(${x} ${y}) scale(${s})"><path d="M-46 -4 Q-46 -70 0 -70 Q46 -70 46 -4" fill="none" stroke="#111" stroke-width="10"/><rect x="-62" y="-24" width="30" height="46" rx="10" fill="#2b2b30" stroke="#111" stroke-width="6"/><rect x="32" y="-24" width="30" height="46" rx="10" fill="#2b2b30" stroke="#111" stroke-width="6"/></g>`},
+ toz(n,seed,y0,y1){const r=Cz.rng(seed||3);let s='<g fill="#e8d9a8">';for(let i=0;i<n;i++)s+=`<circle class="dustm" style="animation-delay:-${(r()*9).toFixed(1)}s" cx="${(r()*1000+40).toFixed(0)}" cy="${(y0+r()*(y1-y0)).toFixed(0)}" r="${(2+r()*3).toFixed(1)}" opacity=".35"/>`;return s+'</g>'},
+ guve(x,y){return `<g class="moth"><circle cx="${x}" cy="${y}" r="5" fill="#fff"/><path d="M${x-9} ${y-3} q-7 -8 -2 -12 M${x+9} ${y-3} q7 -8 2 -12" stroke="#fff" stroke-width="3" fill="none"/></g>`},
  ZZ:[[0,0],[40,34],[80,6],[120,40],[160,10],[200,44],[240,14],[280,40]]
 };
 root.Cz=Cz;

diff --git a/prototip/bolum.html b/prototip/bolum.html
@@ -20,6 +20,18 @@ text{font-family:Impact,'Arial Black','Helvetica Neue',Arial,sans-serif;font-wei
 @keyframes flk{0%{opacity:.16}30%{opacity:.10}34%{opacity:.16}70%{opacity:.08}74%{opacity:.15}100%{opacity:.16}}
 .blnk{animation:blnk 1.8s steps(1) infinite}
 @keyframes blnk{0%{opacity:1}50%{opacity:.15}}
+.moth{animation:moth 2.4s ease-in-out infinite}
+@keyframes moth{0%,100%{transform:translate(0,0)}25%{transform:translate(34px,-22px)}50%{transform:translate(0,-46px)}75%{transform:translate(-34px,-22px)}}
+.rot{animation:rot 6s linear infinite;transform-box:fill-box;transform-origin:center}
+@keyframes rot{to{transform:rotate(360deg)}}
+.fog{animation:fogd 14s linear infinite}
+@keyframes fogd{from{transform:translateX(-140px)}to{transform:translateX(140px)}}
+.drip8{animation:dr8 1.6s ease-in infinite}
+@keyframes dr8{0%{transform:translateY(0);opacity:0}15%{opacity:1}100%{transform:translateY(170px);opacity:0}}
+.dustm{animation:dust 9s ease-in-out infinite}
+@keyframes dust{0%,100%{transform:translate(0,0)}50%{transform:translate(40px,-60px)}}
+.spid{animation:spid 4s ease-in-out infinite}
+@keyframes spid{0%,100%{transform:translateY(0)}50%{transform:translateY(40px)}}
 .cap-anlatici text{fill:#fff}.cap-telsiz text{fill:#f6d56a}.cap-riza text{fill:#ffb366}
 #cap text{font-size:74px;font-weight:900;text-anchor:middle;stroke:#000;stroke-width:16px;stroke-linejoin:round;paint-order:stroke fill}
 </style></head>
